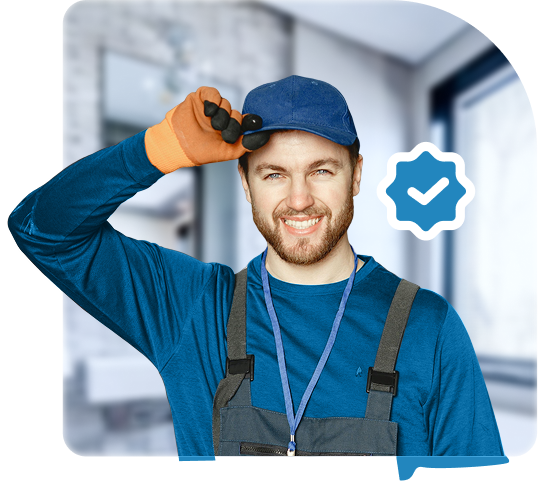
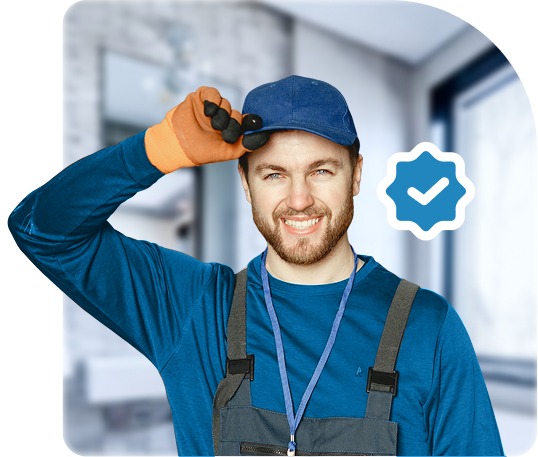
HowItWorks Image Update

diff --git a/src/components/sections/HowItWorksSection.jsx b/src/components/sections/HowItWorksSection.jsx
@@ -42,7 +42,7 @@ const HowItWorksSection = () => {
                 src="/howitworks.png"
                 alt="Professional technician"
                 fill
-                className="object-cover"
+                className="object-contain"
               />
             </div>
 
